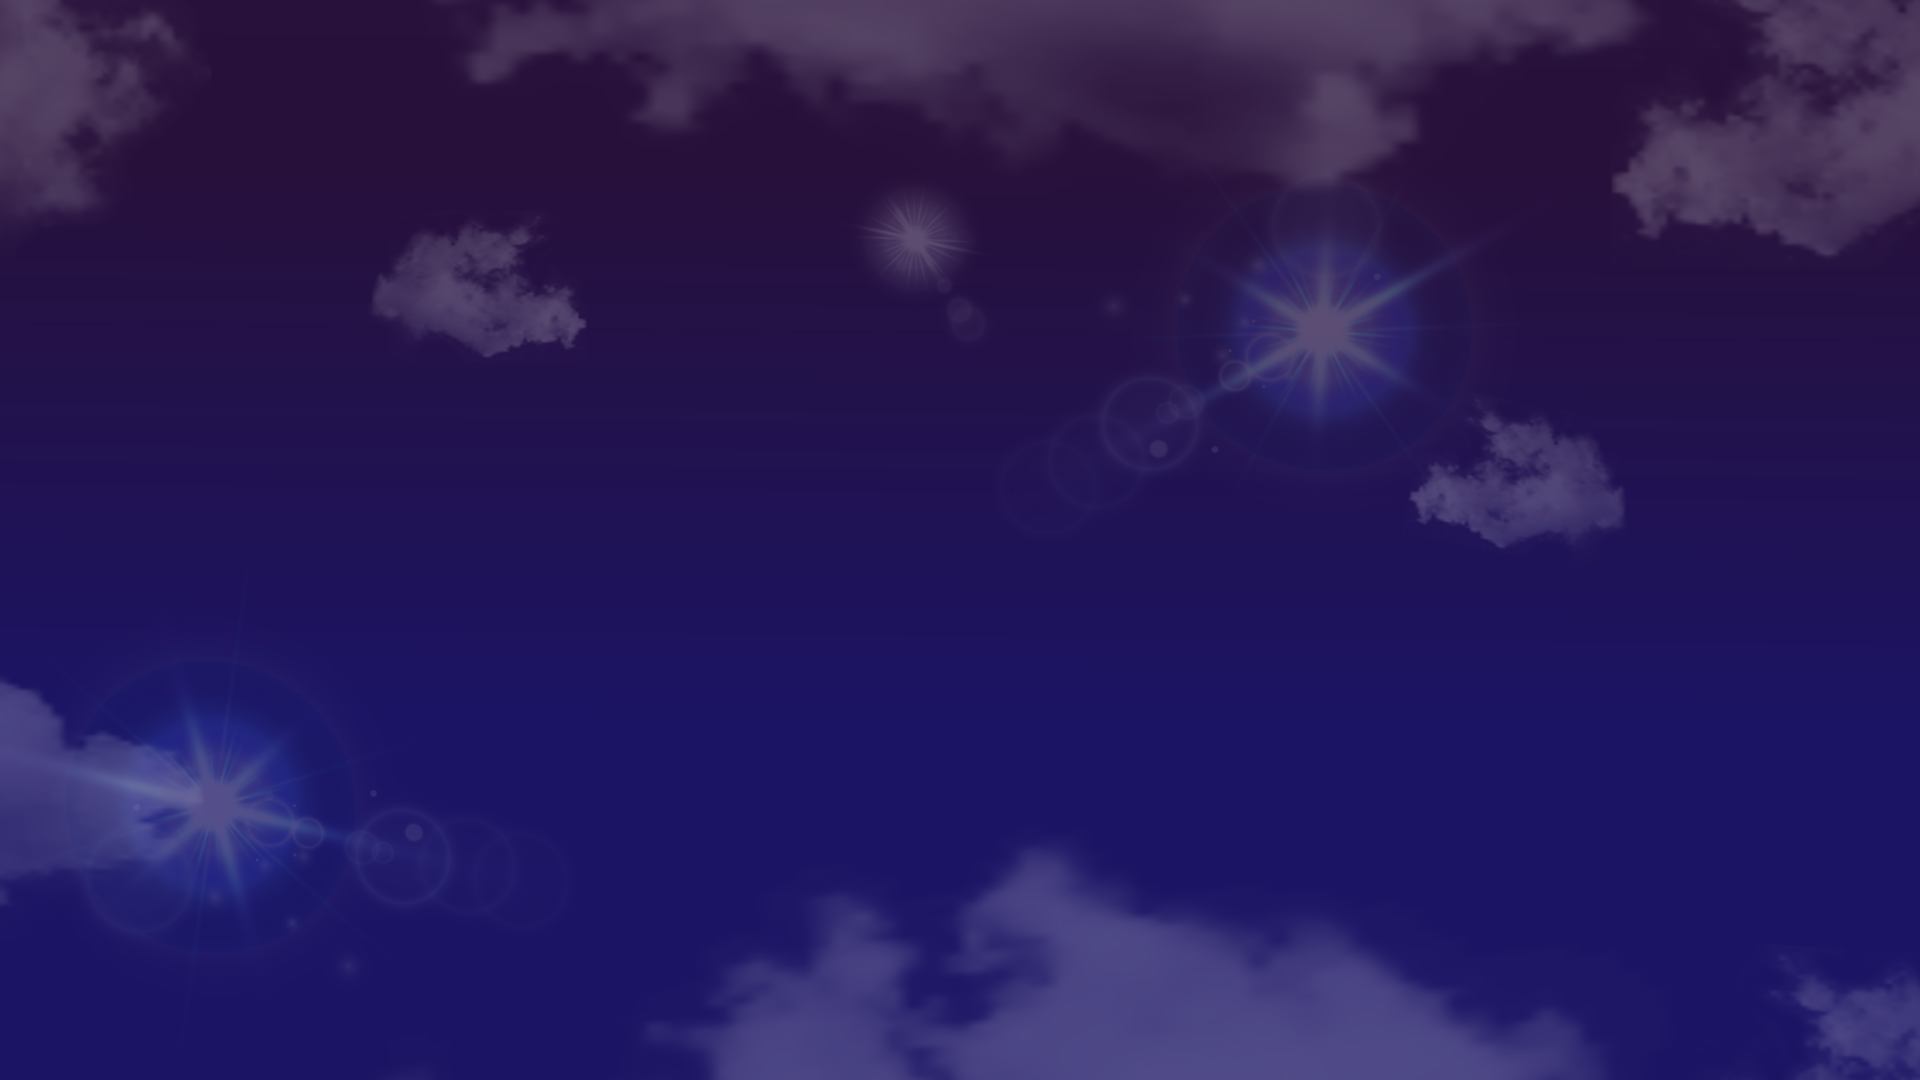
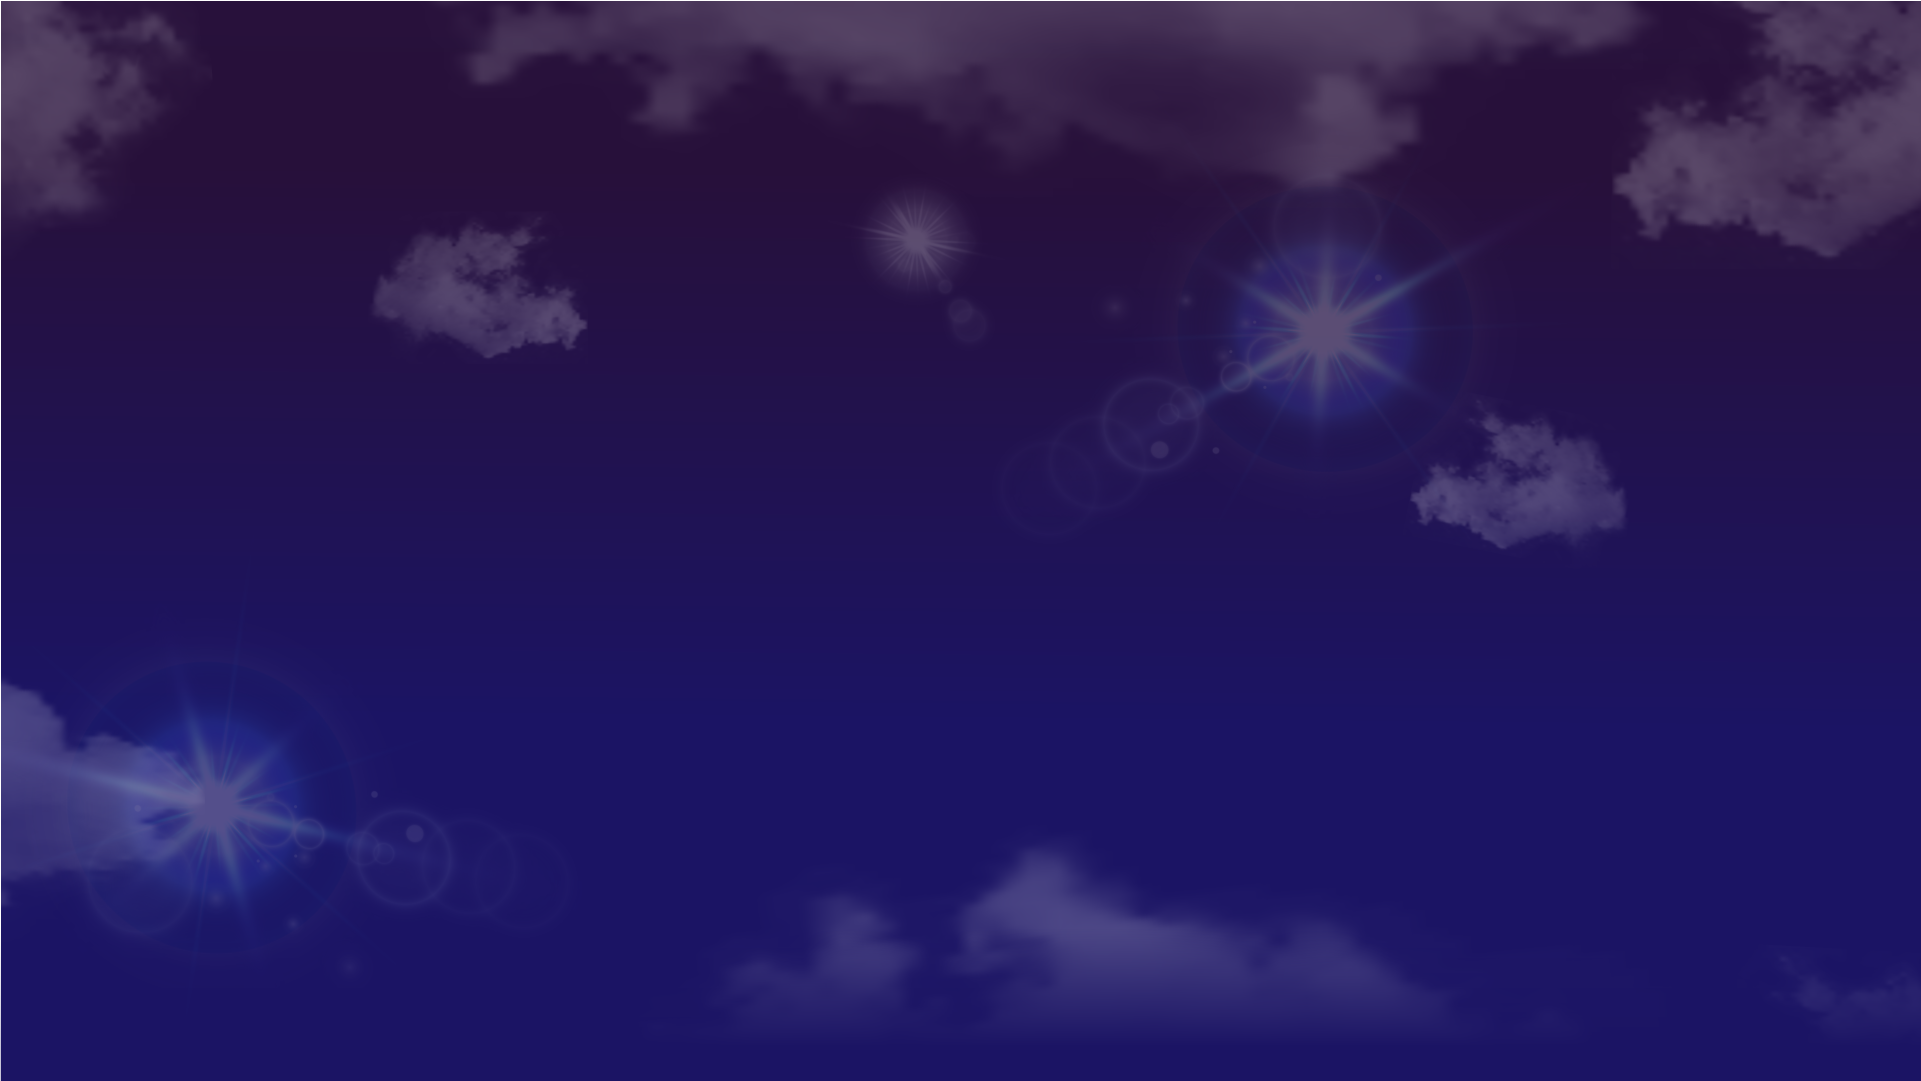
Background changes
Added gradient to backgrounds.

Changed region(s): [[0.3438, 0.9167, 0.8438, 1.0], [0.9375, 0.9167, 1.0, 1.0]]

diff --git a/index.html b/index.html
@@ -41,14 +41,13 @@
             </li>
           </ul>
         </div>
-        <span class="navTrigger" onclick="">
+        <span class="navTrigger">
           <i></i>
           <i></i>
           <i></i>
         </span>
       </div>
     </nav>
-
     <div id="wrapper">
       <section class="home">
         <div class="overlay">
@@ -105,7 +104,7 @@
                     Explore a mystical world and triumph over the invading dark
                     forces.
                   </li>
-                  <li>Traverse landscapes and recover Maomi’s spirit orbs</li>
+                  <li>Traverse landscapes and recover Maomi’s spirit orbs.</li>
                   <li>
                     Restore balance to the spirit world by reuniting Huli and
                     Maomi.
@@ -168,7 +167,10 @@
     <!--closes wrapper-->
 
     <footer>
-      <img src="img/footer-logos.png" />
+      <img
+        src="img/footer-logos.png"
+        alt="Logos for Washington State University Vancouver, The CMDC, Summer SlowJams, and PIGSquad"
+      />
       <div class="copyright"><p>© Huli 2021</p></div>
     </footer>
     <script type="text/javascript" src="script.js"></script>

diff --git a/about.html b/about.html
@@ -92,13 +92,18 @@
             Creative themes are delivered during each kick off event and
             developers are able to showcase their game jam projects at each
             closing event in Portland, OR. (The 2021 Showcases will be held
-            online.) For more information about how to participate in Summer
-            Slow Jams, visit www.pigsquad.com/summerslowjams
+            online). For more information about how to participate in Summer
+            Slow Jams, visit
+            <a href="https://pigsquad.com/summerslowjams">PIGSquad's website</a
+            >.
           </p>
         </div>
       </section>
       <footer>
-        <img src="img/footer-logos.png" />
+        <img
+          src="img/footer-logos.png"
+          alt="Logos for Washington State University Vancouver, The CMDC, Summer SlowJams, and PIGSquad"
+        />
         <div class="copyright"><p>© Huli 2021</p></div>
       </footer>
     </div>

diff --git a/index.css b/index.css
@@ -105,9 +105,10 @@ video {
   overflow: hidden;
   margin: 0 auto;
   background: linear-gradient(
-    0deg,
-    rgba(27, 20, 100, 1) 0%,
-    rgba(40, 17, 59, 1) 100%
+    to bottom,
+    rgba(40, 17, 59, 1),
+    rgba(27, 20, 100, 1),
+    rgba(40, 17, 59, 1)
   );
   background-position: center top;
 }
@@ -198,7 +199,7 @@ video {
   margin: 0 auto;
   position: relative;
   background: linear-gradient(
-    180deg,
+    0deg,
     rgba(27, 20, 100, 1) 0%,
     rgba(39, 18, 62, 1) 100%
   );
@@ -262,8 +263,8 @@ footer {
   overflow: hidden;
   margin: 0 auto;
   background: linear-gradient(
-    0deg,
-    rgba(28, 20, 93, 1) 0%,
+    180deg,
+    rgba(27, 20, 99, 1) 0%,
     rgba(39, 18, 62, 1) 100%
   );
 }

diff --git a/style.css b/style.css
@@ -15,7 +15,6 @@ body {
 
 .home {
   width: 100%;
-  height: 75vh;
   background-position: center top;
   background-size: cover;
 }
@@ -49,7 +48,7 @@ h3 {
   font-family: p22-pooper-black-pro, sans-serif;
 }
 
-h4{
+h4 {
   text-align: center;
   font-size: 1.8em;
   color: #ffffff;
@@ -93,8 +92,9 @@ p {
 
 .and {
   font-family: delaney, sans-serif;
-  font-size: .8em;
+  font-size: 0.8em;
 }
+
 @media screen and (min-width: 768px) and (max-width: 1024px) {
   body {
     font-size: 20px;

diff --git a/about.css b/about.css
@@ -15,12 +15,28 @@
   padding: 0%;
 }
 
+a:link {
+  text-decoration: none;
+  color: #00aebe;
+  font-weight: 700;
+}
+a:visited {
+  color: #00aebe;
+}
+
+a:hover {
+  color: #e5e5e5;
+}
+a:active {
+  color: #e5e5e5;
+}
+
 .about-header {
   display: inline-block;
   position: relative;
   width: 100%;
   height: auto;
-  background-image: url("img/background4.png");
+  background-image: url("img/background2.png");
   background-position: center top;
   background-size: cover;
 }

diff --git a/gallery.html b/gallery.html
@@ -123,7 +123,10 @@
     <!--close wrapper-->
 
     <footer>
-      <img src="img/footer-logos.png" />
+      <img
+        src="img/footer-logos.png"
+        alt="Logos for Washington State University Vancouver, The CMDC, Summer SlowJams, and PIGSquad"
+      />
       <div class="copyright"><p>© Huli 2021</p></div>
     </footer>
 

diff --git a/team.html b/team.html
@@ -353,7 +353,7 @@
      
 
       <footer>
-        <img src="img/footer-logos.png" />
+        <img src="img/footer-logos.png" alt="Logos for Washington State University Vancouver, The CMDC, Summer SlowJams, and PIGSquad"/>
         <div class="copyright"><p>© Huli 2021</p></div>
       </footer>
     </div>

diff --git a/gallery.css b/gallery.css
@@ -63,7 +63,7 @@ video {
   justify-content: center;
   display: flex;
   flex-direction: column;
-  background-image: url("img/background5.png");
+  background-image: url("img/background3.png");
   background-position: center top;
   background-size: cover;
   padding-bottom: 5%;

diff --git a/carousel.css b/carousel.css
@@ -154,8 +154,8 @@ ul.slick-dots li:not(last-child) button:active {
 
 @media screen and (max-width: 600px) {
   .circle {
-    height: 35px;
-    width: 35px;
+    height: 50px;
+    width: 50px;
     top: 50%;
     border: 2px solid #00aebe;
   }
